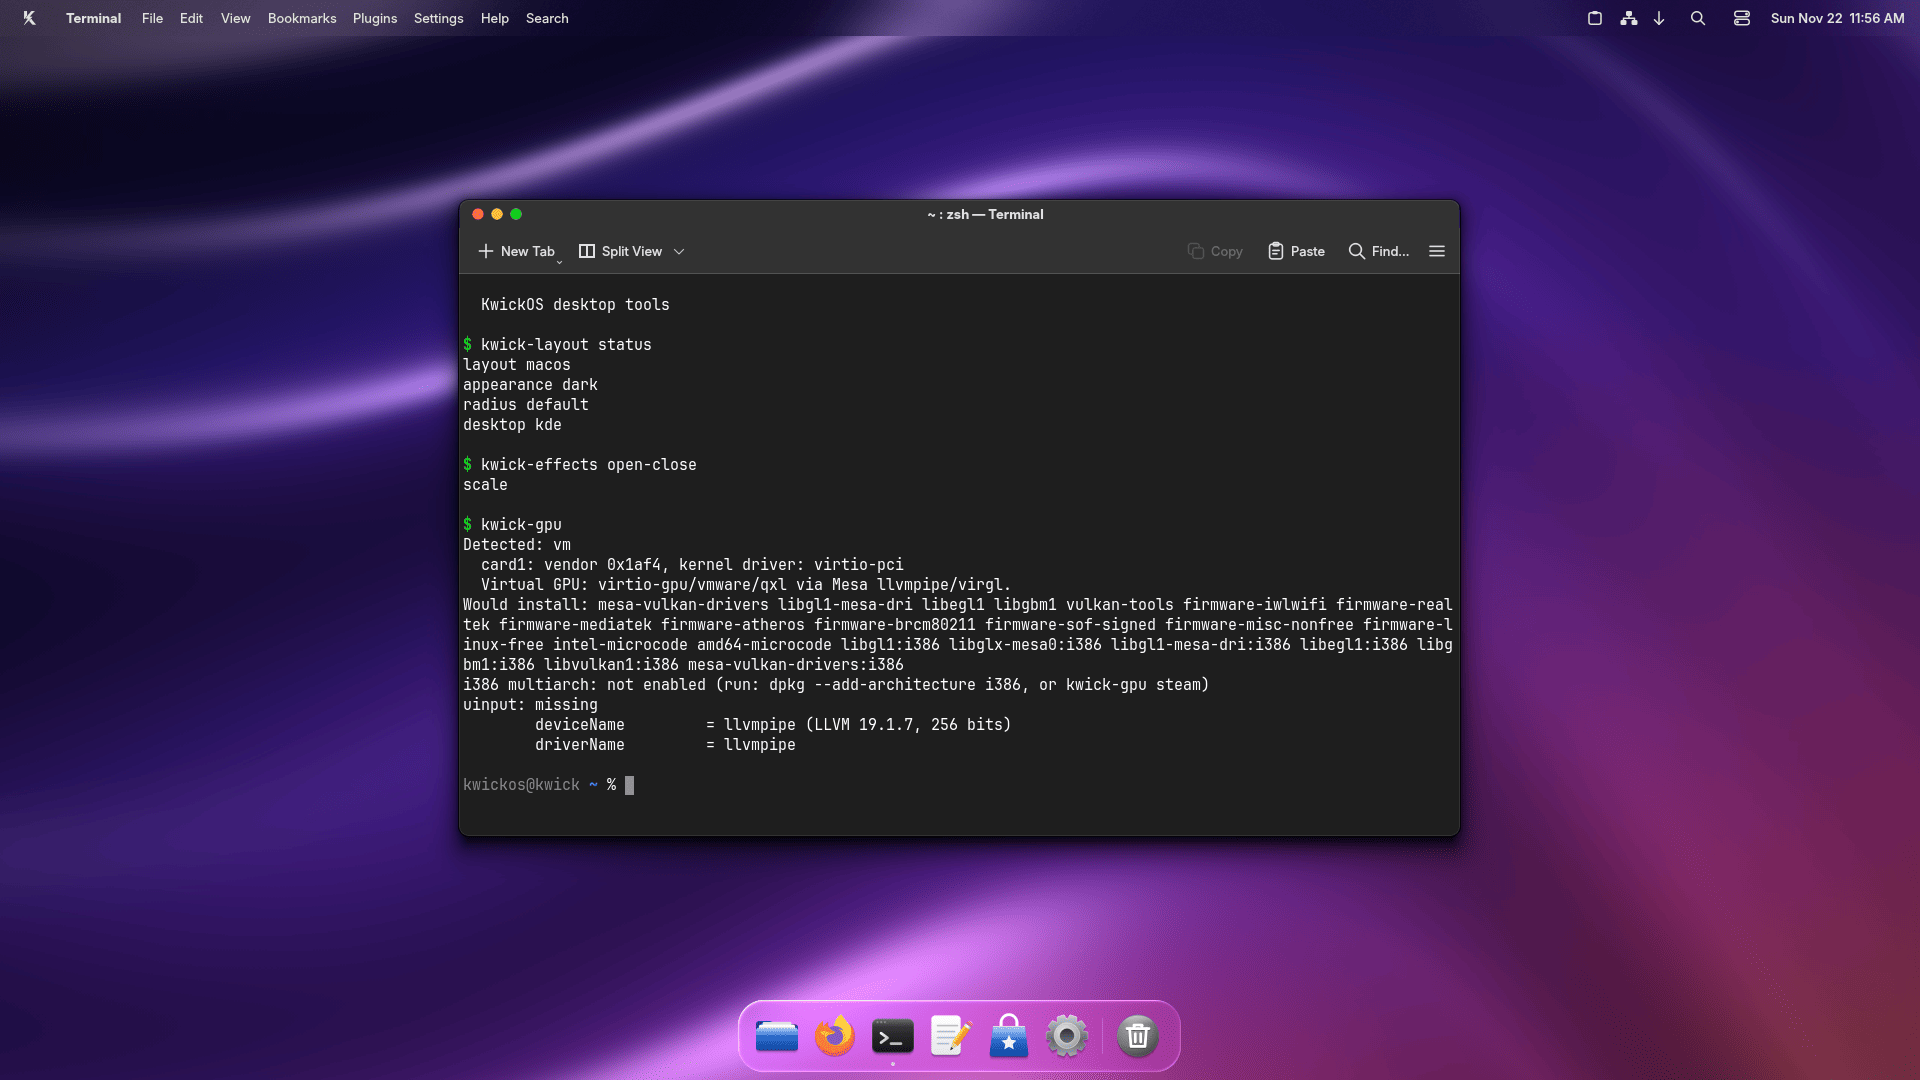
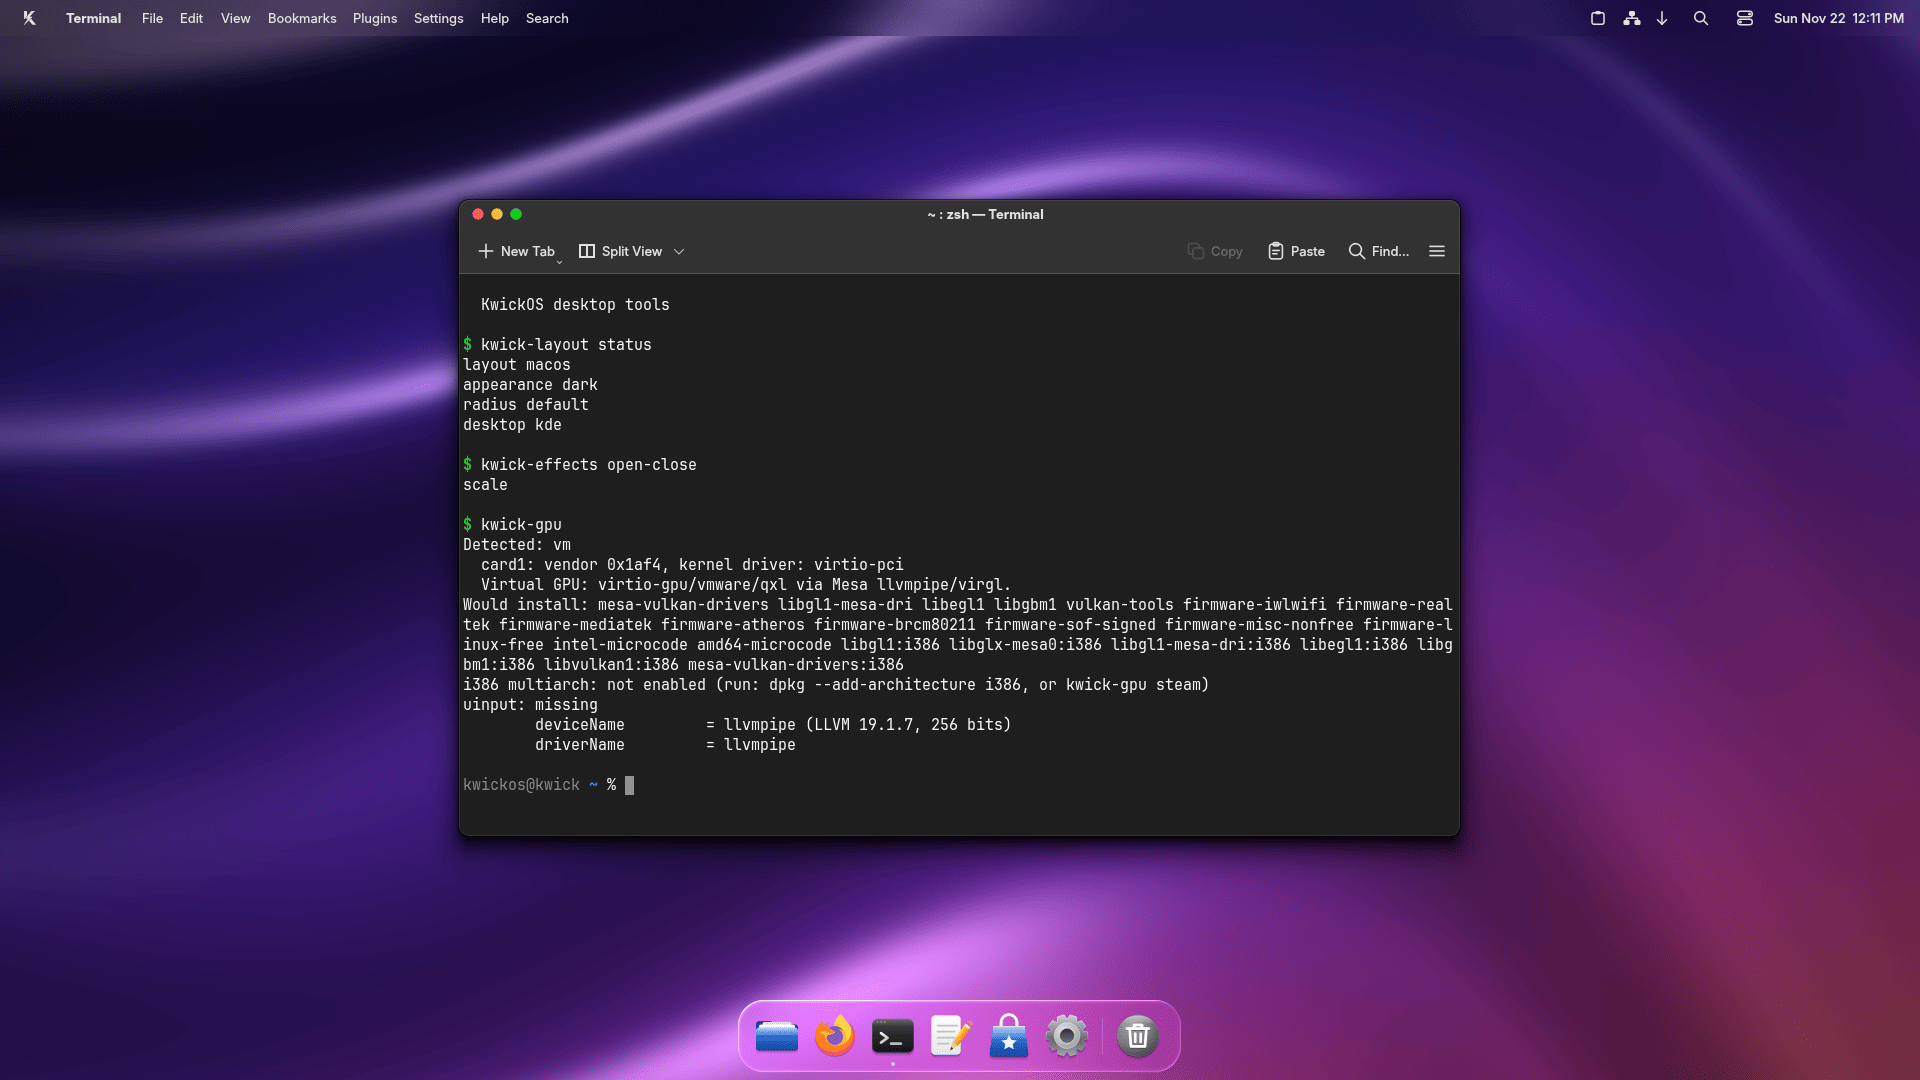
Screenshots retaken with the fixed macOS title-bar edge; the light dock's running dots and separator are dark again; the desktop includes curl so the Debian security check can run

diff --git a/desktop/rootfs/usr/share/plasma/plasmoids/org.kwickos.dock/contents/ui/main.qml b/desktop/rootfs/usr/share/plasma/plasmoids/org.kwickos.dock/contents/ui/main.qml
@@ -14,6 +14,8 @@ import org.kde.taskmanager as TaskManager
 
 PlasmoidItem {
     id: root
+    Kirigami.Theme.colorSet: Kirigami.Theme.Window
+    Kirigami.Theme.inherit: false
 
     preferredRepresentation: fullRepresentation
 
